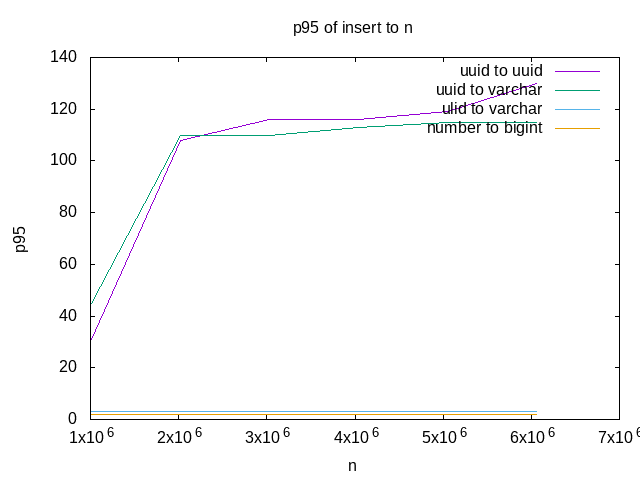
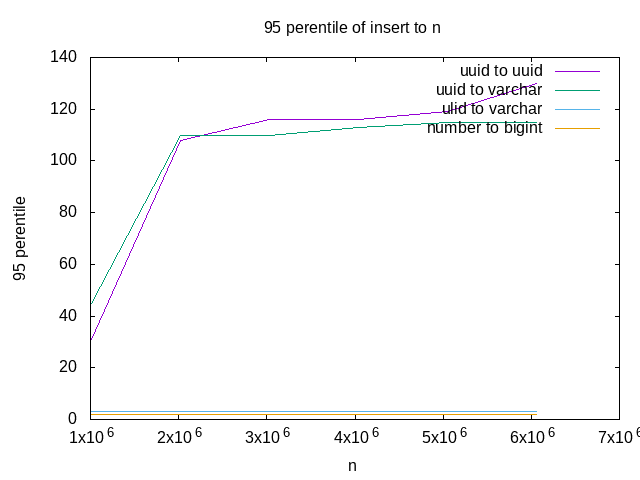
postgres-indexes conclusions

Changed region(s): [[0.4062, 0.0312, 0.6875, 0.0938], [0.0, 0.4062, 0.0625, 0.5938]]

diff --git a/postgres-indexes/report.js b/postgres-indexes/report.js
@@ -25,13 +25,18 @@ async function main() {
 }
 
 function plot(runs, name, x, y) {
+  const explain = (term) => ({
+    'tps': 'transactions per second',
+    'p95': '95 perentile',
+  }[term] || term)
+
   const p = pivot(runs.filter(r => r.name === name), 'serie', x, y)
   const seriesCount = p[0].length
   const series = [...new Array(seriesCount).keys()].map(i => 
     `'tmp.dat' using 1:${i+2} with lines title columnhead(${i+1})`).join(',')
   try { fs.mkdirSync('report', { recursive: true }); } catch (ex) {}
-  const title = `${y} of ${name} to ${x}`
-  const fileName = `report/${name}_${y}_${x}`
+  const title = `${explain(y)} of ${name} to ${explain(x)}`
+  const fileName = `report/${name.replace(/ /g, '_')}_${y}_${x}`
   fs.writeFileSync('tmp.dat', table(p))
   fs.writeFileSync('plot.pg', `
 reset
@@ -41,8 +46,8 @@ set output "${fileName}.png"
 set title "${title}"
 set lmargin 9
 set rmargin 2
-set xlabel "${x}"
-set ylabel "${y}"
+set xlabel "${explain(x)}"
+set ylabel "${explain(y)}"
 set xtics
 plot ${series}
 `)

diff --git a/postgres-indexes/README.md b/postgres-indexes/README.md
@@ -1,23 +1,55 @@
 Test Objective
---------------
+==============
 
-Compare different field types indexes in terms of insert and select speed using different hardware and table sizes.
+Compare different field types indexes (mainly uuid vs bigint) in terms of insert and select speed using different hardware and table sizes.
 Results can be seen as diagrams in report directory, raw results in results directory.
 
+Results
+=======
+
+Select random row using index
+-----------------------------
+
+![select p95](report/select_p95_n.png)
+![select tps](report/select_tps_n.png)
+
+[1] - Number from bigint 1% - It selects random row from 1000 biggest values.
+
+Conclusions:
+- Poor correlation to size of table (Todo: try on bigger tables)
+- Selecting random value from whole table behaves similarly on all field types
+- Selecting values from narrow range is significantly better
+
+Todos:
+- Test on bigger tables (this requires different hardware because tests were rather slow)
+- Retest ulid, maybe it wasn't fully random
+- Retest bigint 1% but for bigger sets
+
+Insert single row into table with index
+---------------------------------------
+
+![insert p95](report/insert_p95_n.png)
+
+Inserting many rows at once into table with index
+-------------------------------------------------
+
+Experimentally determined that inserting 2000 rows at once was most effective.
+
+![batch2000 p95](report/batch2000_insert_p95_n.png)
 
 Usage
------
+=====
 
-Preparations before testing
+Preparations before testing (docker, make, nodejs are required)
 ```
 $ make install  # installs dependencies
-$ make prepare  # starts postgres docker container
+$ make prepare  # start postgres docker container
 ```
 
 Running tests
 
 ```
-$ make test
+$ make test # run multiple times for bigger data sets
 ```
 
 Creating report (requires gnuplot)
